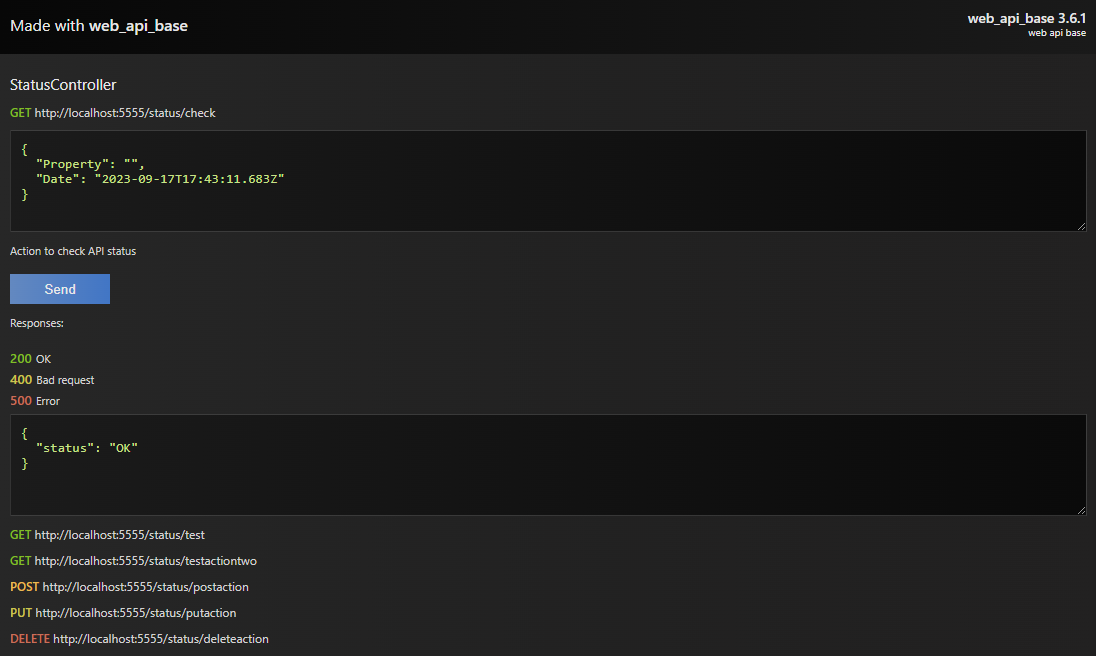
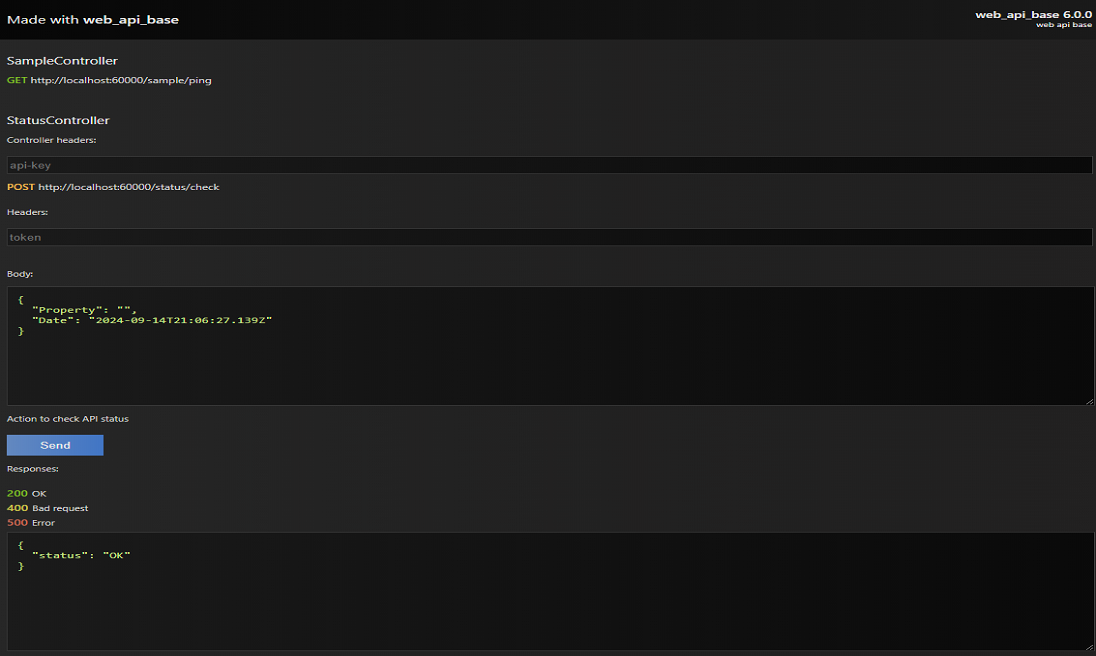
readme updated

diff --git a/readme.md b/readme.md
@@ -495,7 +495,28 @@ We can create a API playground(host/playground) using the Aplication.CreateDocum
     }    
 ```
 
-### To use the default theme, run the API with **--debug** argument
+# Documentation decorators
+We have some decorators to add a more information to our auto-generated documentation
+
+### @ControllerHeader(header : string)
+Add a header field to a controller. All requests will have this header on it
+
+### @ActionHeader(header : string)
+Add a header field to a controller´s action
+
+
+### @Description(description : string) 
+Add a description text on a action 
+
+
+### @RequestJson(json : string) 
+Add a json template as a placeholder of body field. We can use if we want manually define the json, because, the framework can create the json template base on the argument type of action method 
+
+
+### @ProducesResponse(response : { Status : number, Description? : string, JSON? : string }) 
+Explain all the possibles rsponses of a controller´s action. We can use this decorator many times we need to explain all possible resposes 
+
+### To use the default theme, run the API with **--debug** argument only
 
 [![Alt text](https://raw.githubusercontent.com/adrianomarino1992/web_api_base/master/light.png)](https://raw.githubusercontent.com/adrianomarino1992/web_api_base/master/light.png)
 
